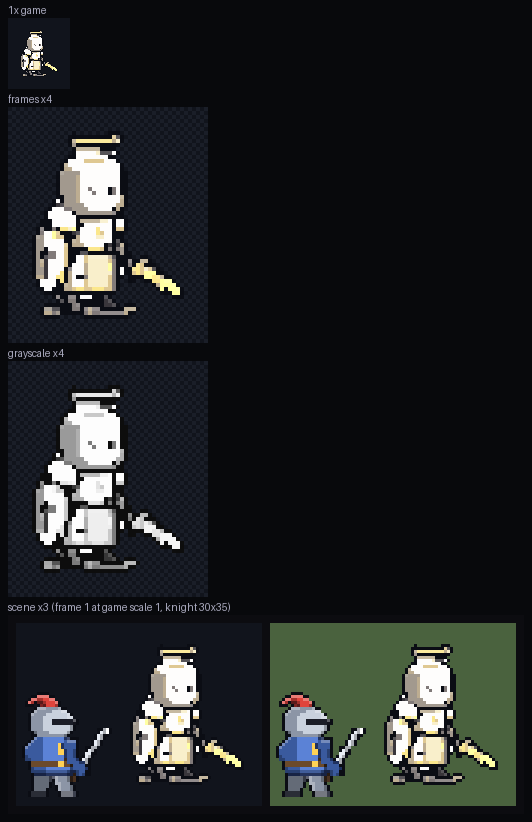
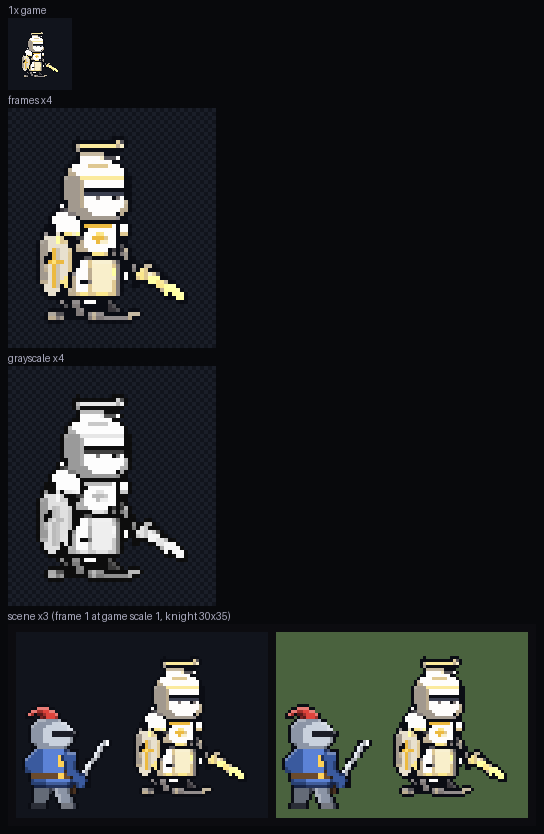
검사 계열 2차 4종 기준 그림 검수 합격 (독립 비평 2개): 검사·성기사·검성·대검전사 + 나란히 비교
- 수리 스크립트 fix_gs_hand.py·fix_bm_eye.py·fix_paladin_gold.py, 밑그림 mannequin_gs2.py, lineup.py
- 검토 페이지 ✔ 절: 컬러·흑백·실루엣, 점수표, 검수 시트

diff --git a/dev/review/sheets-sword.html b/dev/review/sheets-sword.html
@@ -66,14 +66,18 @@
   흐름: 컨셉만 보고 ComfyUI 로 새로 그림(3등신 마네킹 비율판) → 비평으로 후보 순위 → PixelLab <code>image-to-pixelart</code> 256→64 (직업당 1회) → 손질(<code>dev/sheets-common/polish.py</code>) → 검수 시트(<code>qa.py --kind char</code>) + 블라인드 비평(<code>dev/pixel-qa/critic.md</code>). 합격선: 모든 항목 3 이상 · 평균 3.5.
   목표 문장에 사용자 지적 "뭉개짐 현상이 심하다"를 넣었다.
 </div>
-<div class="row">
-  <figure><img class="px3" src="sheets-sword/design/pass-swordsman.png" alt=""><figcaption>검사 — 4·4·4·4·3 · 평균 4.0 합격</figcaption></figure>
-  <figure><img class="px3" src="sheets-sword/design/pass-paladin.png" alt=""><figcaption>성기사 — 3·3·4·3·3 · 평균 3.57 합격</figcaption></figure>
-  <figure><img class="px3" src="sheets-sword/design/wip-blademaster.png" alt="" style="opacity:.55"><figcaption>검성 — 평균 3.43 수리 (칼 겹침·하반신 어두움)</figcaption></figure>
-  <figure><img class="px3" src="sheets-sword/design/wip-greatswordsman.png" alt="" style="opacity:.55"><figcaption>대검전사 — 평균 3.14 다시 (대검이 좁아짐)</figcaption></figure>
-</div>
-<div class="dim">점수 순서: 의도 · 읽힘 · 깔끔 · 명암 · 도트 (움직임 5 · 규칙 4 고정). 흐린 두 장은 아직 미달이라 다시 그리는 중.</div>
-<details><summary class="dim">검수 시트 (검사·성기사)</summary><div class="row"><img src="sheets-sword/design/qa-swordsman.png" style="max-width:48%" alt=""><img src="sheets-sword/design/qa-paladin.png" style="max-width:48%" alt=""></div></details>
+<h3>2차 4종 나란히 — 컬러 · 흑백 · 실루엣 (4배, 게임 안 키 46px)</h3>
+<div class="row"><img src="sheets-sword/design/lineup-all-x4.png" alt="검사·성기사·검성·대검전사 컬러·흑백·실루엣" style="max-width:100%"></div>
+<div class="row"><figure><img src="sheets-sword/design/lineup-x1.png" alt="" style="image-rendering:pixelated"><figcaption>1배 (실제 도트 크기)</figcaption></figure></div>
+<table>
+  <tr><th>직업</th><th>그림</th><th>만든 길</th><th>검수 (의도·읽힘·깔끔·명암·도트·움직임·규칙 → 평균)</th></tr>
+  <tr><td>검사</td><td><img class="px3" src="sheets-sword/design/final-swordsman.png" alt=""></td><td>ComfyUI N2-23 → PixelLab 변환 → 정리</td><td>A 4·4·3·4·3·5·4 → 3.86 · B 4·4·3·4·3·5·4 → 3.86</td></tr>
+  <tr><td>성기사</td><td><img class="px3" src="sheets-sword/design/final-paladin.png" alt=""></td><td>ComfyUI N2-51 → PixelLab 변환 → 면갑 스크립트 → <code>fix_paladin_gold.py</code> (방패 금 십자가·방패 면 크림·가슴 금 문장·어깨 금띠)</td><td>A 4·3·4·3·3·5·4 → 3.71 · B 3·3·4·3·3·5·4 → 3.57</td></tr>
+  <tr><td>검성</td><td><img class="px3" src="sheets-sword/design/final-blademaster.png" alt=""></td><td>ComfyUI N7-77 (흰 가면) 46칸 축소 → <code>fix_bm_eye.py</code> (빨간 눈 틈·왼손 칼 정리·등 뒤 밝힘·판 테두리·다리 줄무늬) — PixelLab 변환본은 3.17 이라 버림</td><td>A 3·4·4·3·4·5·4 → 3.86 · B 4·3·4·3·4·5·4 → 3.86</td></tr>
+  <tr><td>대검전사</td><td><img class="px3" src="sheets-sword/design/final-greatswordsman.png" alt=""></td><td>밑그림 <code>mannequin_gs2.py</code>(두 주먹이 자루) → ComfyUI N8-97 46칸 축소 → <code>fix_gs_hand.py</code> (주먹·코등이·찡그린 눈썹·입·칼날 가장자리)</td><td>A 4·3·3·3·3·5·4 → 3.57 · B 4·4·4·3·4·5·4 → 4.0</td></tr>
+</table>
+<div class="dim">평균은 critic.md 대로 7항목(한 장 그림은 움직임 5). 검성·대검전사는 같은 그림의 판정이 흔들려서 독립 비평 2개가 모두 합격일 때만 합격으로 쳤다. 4종 모두 독립 비평 2개 합격. 남은 흠(비평 공통): 성기사 흰 몸통·방패 밝기가 붙음·어깨 금 약함, 검사 하체 판금이 잘게 쪼개짐·43색, 검성 칼이 곧아 곡도 휨이 약함·손이 작음, 대검전사 칼날과 가슴판 밝기가 붙음 — 관절 애니 단계에서 무기 덧그리기로 다룰 수 있다.</div>
+<details><summary class="dim">검수 시트 (4종)</summary><div class="row"><img src="sheets-sword/design/qa-swordsman.png" style="max-width:48%" alt=""><img src="sheets-sword/design/qa-paladin.png" style="max-width:48%" alt=""><img src="sheets-sword/design/qa-blademaster.png" style="max-width:48%" alt=""><img src="sheets-sword/design/qa-greatswordsman.png" style="max-width:48%" alt=""></div></details>
 <h2>▣ 뭉개짐 잡기 — 검사·성기사 3단 비교 + 검성·대검전사 재시안 (2026-10-17, PixelLab 2)</h2>
 <div class="card">
   <b>뭉개짐 원인</b>: ComfyUI(Z-Image 픽셀 LoRA)가 그리는 도트 한 칸이 1024px 그림에서 6~7px, 즉 <b>키 약 120칸짜리 고해상 도트</b>다. 이걸 키 46px 로 줄이면 2.6배 압축이라 갑옷 이음새·명암이 한 칸에 섞여 덩어리가 된다 (줄이는 방식 — 칸마다 최빈색 — 의 문제가 아니라 디테일 밀도가 안 맞음).

diff --git a/dev/sheets-sword/fix_gs_hand.py b/dev/sheets-sword/fix_gs_hand.py
@@ -1,0 +1,42 @@
+# 대검전사 N8-97 46칸 축소본 수리 (스크립트, PixelLab 0): 비평 p4 "자루를 쥔 주먹·코등이가 안 보여 칼이 몸에 박힌 판처럼 읽힘"
+#  칼날 아래 끝(가슴 앞)에 칼날과 직각인 어두운 코등이 한 줄, 그 아래 갈색 자루 위에 주먹(장갑 2단 + 외곽선)을 찍는다.
+#  python -I -B fix_gs_hand.py → design/pl2/fix-greatswordsman-n8.png, design/_gs97-fix-x8.png
+import os
+from PIL import Image
+HERE = os.path.dirname(os.path.abspath(__file__)); D = os.path.join(HERE, 'design')
+OUT = (11, 13, 20, 255); GUARD = (70, 76, 92, 255); GUARD_L = (130, 138, 156, 255)
+GLOVE = (206, 150, 100, 255); GLOVE_L = (232, 186, 140, 255); GLOVE_D = (128, 80, 48, 255)
+
+if __name__ == '__main__':
+    im = Image.open(os.path.join(D, 'px', 'greatswordsman-N8-97-h46.png')).convert('RGBA'); P = im.load()
+    # 코등이: 칼날 축(오른쪽 아래 45도)에 직각, 칼날 끝 (19,24) 중심
+    for i, (x, y) in enumerate([(16, 27), (17, 26), (18, 25), (19, 24), (20, 23), (21, 22), (22, 21)]):
+        P[x, y] = GUARD_L if i in (2, 3) else GUARD
+        P[x + 1, y] = OUT if not P[x + 1, y][3] or i in (0, 6) else P[x + 1, y]
+    # 주먹: 코등이 바로 아래 자루 위, 밝은 장갑 + 손가락 마디 어두운 줄, 바깥쪽(왼쪽·아래)만 외곽선
+    for y in range(25, 28):
+        for x in range(20, 23):
+            P[x, y] = GLOVE_D if x == 22 else GLOVE
+    P[21, 25] = GLOVE_L
+    for y in range(25, 29): P[19, y] = OUT
+    for x in range(19, 24): P[x, 28] = OUT
+    # 얼굴 (비평 p4 g3-A·B: 찡그림 약함·볼 주황 얼룩·칼날과 얼굴 밝기 붙음)
+    SKIN_D = (200, 152, 118, 255)
+    for y in range(12, 21):                                    # 볼·눈 줄의 주황(204,127,74) → 어두운 살색
+        for x in range(13, 31):
+            if P[x, y][:3] == (204, 127, 74): P[x, y] = SKIN_D
+    for x, y in ((25, 11), (26, 11), (27, 12), (28, 12), (29, 12), (30, 12), (26, 12)):   # 굵은 사선 눈썹 (안쪽이 내려감)
+        P[x, y] = OUT
+    for x in (27, 28, 29): P[x, 13] = (228, 192, 161, 255)    # 눈 줄 정리 → 피부
+    P[27, 14] = OUT; P[30, 14] = OUT                           # 눈 두 점
+    for x in (27, 28, 29): P[x, 17] = OUT                      # 꽉 다문 입
+    P[26, 18] = OUT; P[30, 18] = OUT                           # 입꼬리 내려감
+    # 칼날이 얼굴에 닿는 칸 → 어두운 강철 (흑백에서 칼날·얼굴 분리)
+    face = lambda c: c[3] and c[0] > 190 and c[1] > 140 and c[2] < 170
+    ch = [(x, y) for y in range(10, 22) for x in range(1, im.width - 1) if P[x, y][3] and P[x, y][:3] in ((224, 220, 226), (156, 167, 188), (160, 170, 189)) and face(P[x + 1, y])]
+    for q in ch: P[q] = (96, 104, 124, 255)
+    im.save(os.path.join(D, 'pl2', 'fix-greatswordsman-n8.png'))
+    S = 8; b = Image.new('RGBA', (im.width * 2 * S + 8 * S, im.height * S), (38, 40, 50, 255))
+    a = Image.open(os.path.join(D, 'px', 'greatswordsman-N8-97-h46.png')).convert('RGBA')
+    b.alpha_composite(a.resize((a.width * S, a.height * S), Image.NEAREST)); b.alpha_composite(im.resize((im.width * S, im.height * S), Image.NEAREST), ((im.width + 8) * S, 0))
+    b.save(os.path.join(D, '_gs97-fix-x8.png')); print('ok')

diff --git a/dev/sheets-sword/fix_bm_eye.py b/dev/sheets-sword/fix_bm_eye.py
@@ -1,0 +1,37 @@
+# 검성 N7-77 46칸 축소본 수리 (스크립트, PixelLab 0): 비평 p4 b1·b2 공통 "흰 가면에 빨간 눈 틈이 없음"
+#  가면의 어두운 눈 두 점을 지우고 가로 한 줄 진홍 눈 틈을 찍는다.  python -I -B fix_bm_eye.py → design/pl2/fix-blademaster-n7.png
+import os
+from PIL import Image
+HERE = os.path.dirname(os.path.abspath(__file__)); D = os.path.join(HERE, 'design')
+if __name__ == '__main__':
+    im = Image.open(os.path.join(D, 'px', 'blademaster-N7-77-h46.png')).convert('RGBA'); P = im.load()
+    W = P[24, 14]                                              # 가면 흰색
+    for x in (22, 23): P[x, 14] = W
+    for x in range(23, 30): P[x, 15] = (200, 16, 24, 255)
+    im.save(os.path.join(D, 'pl2', 'fix-blademaster-n7.png'))
+    # 2차 (비평 p5-B 등 공통: 왼손 칼에 빨간 꼬리·검은 덩어리가 붙어 깃발처럼 읽힘) → 칼 둘레만 남기고 지운 뒤 칼날을 위로 4칸 늘림
+    OUT = (8, 12, 20, 255); LIT = (252, 252, 248); MID = (128, 136, 164)
+    q = lambda c: tuple(v // 4 * 4 for v in c[:3])
+    for y in range(22, 35):
+        for x in range(0, 12):
+            if P[x, y][3] and q(P[x, y]) not in (LIT, MID): P[x, y] = (0, 0, 0, 0)
+    for k, y in enumerate(range(25, 29)):
+        x = k + 1; P[x, y] = LIT + (255,); P[x + 1, y] = MID + (255,)
+    blade = [(x, y) for y in range(22, 36) for x in range(0, 16) if P[x, y][3] and q(P[x, y]) in (LIT, MID)]
+    for x, y in blade:
+        for a, b in ((1, 0), (-1, 0), (0, 1), (0, -1)):
+            if 0 <= x + a < im.width and 0 <= y + b < im.height and not P[x + a, y + b][3]: P[x + a, y + b] = OUT
+    # 몸 (비평 p5-A·B 공통): 등 뒤 거의 검정(32,48,68) → 한 단계 밝게, 가슴판·치마판 윗변 밝은 테두리, 다리 밝은 줄무늬 → 다리색
+    for y in range(im.height):
+        for x in range(im.width):
+            if P[x, y][3] and q(P[x, y]) == (32, 48, 68): P[x, y] = (54, 70, 94, 255)
+    HI = (104, 124, 152, 255)
+    for y, x0, x1 in ((25, 14, 32), (34, 16, 31)):
+        for x in range(x0, x1):
+            if P[x, y][3] and q(P[x, y]) == (64, 84, 108): P[x, y] = HI
+    for y in range(37, 43):
+        for x in range(im.width):
+            if P[x, y][3] and q(P[x, y]) == MID: P[x, y] = (72, 92, 116, 255)
+    im.save(os.path.join(D, 'pl2', 'fix2-blademaster-n7.png'))
+    S = 8; b = Image.new('RGBA', (im.width * S, im.height * S), (38, 40, 50, 255)); b.alpha_composite(im.resize(b.size, Image.NEAREST)); b.save(os.path.join(D, '_bm77-fix-x8.png'))  # (2차 결과 기준)
+    print('ok')

diff --git a/dev/sheets-sword/fix_paladin_gold.py b/dev/sheets-sword/fix_paladin_gold.py
@@ -1,0 +1,37 @@
+# 성기사 면갑본(design/pl2/visor-paladin.png) 수리 (스크립트, PixelLab 0): 재검수 p2/p10 A·B 공통
+#  "방패 십자가가 회색·금 장식이 안 보임·방패/몸통이 흰 덩어리로 붙음" → 방패 십자가 금색, 방패 면 한 단계 크림, 가슴 금 문장, 어깨 띠 금
+#  python -I -B fix_paladin_gold.py → design/pl2/fix-paladin.png, design/_pal-fix-x8.png
+import os
+from PIL import Image
+HERE = os.path.dirname(os.path.abspath(__file__)); D = os.path.join(HERE, 'design')
+GOLD = (236, 186, 64, 255); GOLD_D = (178, 124, 36, 255); GOLD_L = (255, 226, 120, 255); FACE = (232, 224, 206, 255)
+if __name__ == '__main__':
+    src = Image.open(os.path.join(D, 'pl2', 'visor-paladin.png')).convert('RGBA'); im = src.copy(); P = im.load()
+    # 방패: x 1..9, y 25..41 (왼팔 카이트 방패)
+    for y in range(25, 42):
+        for x in range(1, 10):
+            c = P[x, y]
+            if not c[3] or c[:3] == (11, 13, 20): continue
+            if c[:3] in ((57, 54, 59),): P[x, y] = GOLD_D
+            elif c[:3] in ((129, 122, 121), (86, 84, 88)): P[x, y] = GOLD
+            elif c[:3] == (254, 253, 252): P[x, y] = FACE
+    # 끊긴 십자 조각은 지우고 또렷한 십자(세로 x5 y29~38, 가로 y32 x3~7)를 새로 그림
+    for y in range(25, 42):
+        for x in range(1, 10):
+            if P[x, y] in (GOLD, GOLD_D): P[x, y] = FACE
+    for y in range(29, 39):
+        if P[5, y][3] and P[5, y][:3] != (11, 13, 20): P[5, y] = GOLD
+    for x in range(3, 8):
+        if P[x, 32][3] and P[x, 32][:3] != (11, 13, 20): P[x, 32] = GOLD
+    P[5, 32] = GOLD_L
+    for y in range(29, 39):
+        if P[6, y] == FACE and y != 32: P[6, y] = (206, 196, 176, 255)      # 십자 오른쪽 그늘 1줄
+    # 가슴 금 십자 문장, 어깨 띠 금
+    for x, y in ((16, 25), (16, 26), (16, 27), (15, 26), (17, 26)): P[x, y] = GOLD
+    P[16, 25] = GOLD_L
+    for x in range(13, 20):
+        if P[x, 23][3] and P[x, 23][:3] != (11, 13, 20): P[x, 23] = GOLD
+    im.save(os.path.join(D, 'pl2', 'fix-paladin.png'))
+    S = 8; b = Image.new('RGBA', ((im.width * 2 + 6) * S, im.height * S), (38, 40, 50, 255))
+    b.alpha_composite(src.resize((im.width * S, im.height * S), Image.NEAREST)); b.alpha_composite(im.resize((im.width * S, im.height * S), Image.NEAREST), ((im.width + 6) * S, 0))
+    b.save(os.path.join(D, '_pal-fix-x8.png')); print('ok')

diff --git a/dev/sheets-sword/lineup.py b/dev/sheets-sword/lineup.py
@@ -1,0 +1,40 @@
+# 검사 계열 2차 4종 기준 그림 나란히 (컬러·흑백·실루엣) — 색깔놀이 금지 확인용, 로드맵·사용자 검토
+#  python -I -B lineup.py → dev/review/sheets-sword/design/lineup-{color,gray,sil}-x4.png, lineup-x1.png, lineup-all-x4.png
+import os
+from PIL import Image, ImageDraw
+HERE = os.path.dirname(os.path.abspath(__file__)); ROOT = os.path.dirname(os.path.dirname(HERE))
+PL = os.path.join(HERE, 'design', 'pl2'); RV = os.path.join(ROOT, 'dev', 'review', 'sheets-sword', 'design')
+LINE = [('검사', 'swordsman', 'clean-swordsman.png'), ('성기사', 'paladin', 'fix-paladin.png'),
+        ('검성', 'blademaster', 'fix2-blademaster-n7.png'), ('대검전사', 'greatswordsman', 'fix-greatswordsman-n8.png')]
+BG = (38, 40, 50, 255)
+
+
+def gray(im):
+    g = im.convert('LA').convert('RGBA'); g.putalpha(im.split()[3]); return g
+
+
+def sil(im):
+    o = Image.new('RGBA', im.size, (0, 0, 0, 0)); a = im.split()[3]
+    o.paste((235, 235, 240, 255), mask=a); return o
+
+
+def row(ims, S, gap=10):
+    H = max(i.height for i in ims); W = sum(i.width + gap for i in ims) + gap
+    o = Image.new('RGBA', (W * S, (H + 4) * S), BG); x = gap
+    for i in ims:
+        o.alpha_composite(i.resize((i.width * S, i.height * S), Image.NEAREST), (x * S, (H + 2 - i.height) * S)); x += i.width + gap
+    return o
+
+
+if __name__ == '__main__':
+    os.makedirs(RV, exist_ok=True)
+    ims = [Image.open(os.path.join(PL, f)).convert('RGBA') for _, _, f in LINE]
+    for i, (_, c, _) in enumerate(LINE): ims[i].save(os.path.join(RV, f'final-{c}.png'))
+    rows = {'color': ims, 'gray': [gray(i) for i in ims], 'sil': [sil(i) for i in ims]}
+    for k, r in rows.items(): row(r, 4).save(os.path.join(RV, f'lineup-{k}-x4.png'))
+    row(ims, 1).save(os.path.join(RV, 'lineup-x1.png'))
+    parts = [row(r, 4) for r in rows.values()]
+    all_ = Image.new('RGBA', (parts[0].width, sum(p.height for p in parts)), BG); y = 0
+    for p in parts: all_.alpha_composite(p, (0, y)); y += p.height
+    all_.save(os.path.join(RV, 'lineup-all-x4.png'))
+    print('sizes', [i.size for i in ims])

diff --git a/docs/specs/legacy-class-sheets.md b/docs/specs/legacy-class-sheets.md
@@ -206,6 +206,8 @@
 - 2026-10-17 레인저 계열 기준 그림 정리 (PixelLab image-to-pixelart 4, 계열 누적 16): 석궁사수 얼굴 재시안 B5f-73(좌우 반전) → 256 판(몸 키 184) → 256→64 정리 → 정리본(clean) 채택 (공용 polish 손질본은 4종 모두 남색·초록·피부가 검게 무너져 낮음) → 무료 수리(저격수 흰 점 지우기·안쪽 명도 올림, 석궁사수 흰 점) → 정식 qa.py --kind char + critic.md 비평 합격: 레인저 3.86·저격수 3.71·마궁수 3.71·석궁사수 3.86. 관절 애니 계획서(skeleton-v3 192 8f×3 동작×4종 = 36, 재시도 0) 로드맵 승인 대기. 검토 `dev/review/sheets-bow.html` C절.
 
 - 2026-10-17 창기사 계열 새 디자인 4종 도트 검수 합격 (창기사·용기병·할버디어 3.57, 랜서 3.71): 직업별 3등신 도트 마네킹 가이드 + 컨셉 프롬프트 ComfyUI(`dev/spear/design5.py`) → 형태 순위 → PixelLab image-to-pixelart 256→64 직업당 1회 + 창기사 재정리 1회(로드맵 승인) → polish → 스크립트 수리(`fix.py`) → 정리본에서 무기 직선을 찾아 코드 무기로 바꾸기(`pix.py wpnfix`: 3px 창, 3단 반달 할버드, 끊김 없는 원뿔 랜스) → `qa.py --kind char` + 비평(목표 문장에 사용자 지적 4건·실루엣 IoU). 1차(v4) 16장 합격 0 의 원인: 1024→46 축소로 창이 1~2px, 어두운 한 톤, 체형 가이드 약함. PixelLab 누계 16. 검토 `sheets-spear.html` ◆절. 다음: 관절 애니 시험(창기사 찌르기 8f, usage 3) 계획서 승인 대기.
+- 2026-10-17: **검사 계열 2차 4종 기준 그림 검수 합격** (독립 비평 2개 모두 합격일 때만 합격 — 같은 그림 판정이 3.17~4.0 으로 흔들려서 정한 규칙. 평균은 critic.md 대로 7항목). 검사 `design/pl2/clean-swordsman.png` 3.86·3.86 · 성기사 `fix-paladin.png`(면갑본 + `fix_paladin_gold.py` 금 십자 방패·가슴 문장·어깨 금띠) 3.71·3.57 · 검성 `fix2-blademaster-n7.png`(ComfyUI N7 흰 가면 46칸 축소 + `fix_bm_eye.py`) 3.86·3.86 · 대검전사 `fix-greatswordsman-n8.png`(밑그림 `mannequin_gs2.py` 두 주먹이 자루 → N8-97 축소 + `fix_gs_hand.py`) 3.57·4.0. 나란히(컬러·흑백·실루엣) `lineup.py` → 검토 페이지 ✔ 절. PixelLab 이번 3(대검전사 N6-37 변환 → 손 없음으로 버림, 검성 N7-77·대검전사 N8-97 변환 → 둘 다 축소본보다 낮아 버림, 로드맵 승인 수리안대로 축소본 채택), 계열 누적 28. 교훈: ComfyUI 시안이 이미 46칸에서 또렷하면 image-to-pixelart 가 오히려 손·표정을 지운다 — 3등신 시안부터는 축소+스크립트 수리를 먼저 검수하고 변환은 그게 안 될 때만.
+
 ## 남은 일 / 미정
 - 2026-10-17 (로드맵, 레인저 교훈): skeleton-v3 는 첫 프레임이 무기를 겨눈 자세면 팔 관절을 따르지 않고 그 팔 모양을 지킨다(다리는 따름). 관절 애니 첫 프레임은 "팔 내린 중립 대기·빈손·무기 없음"으로 — 기준 그림이 무기를 든 자세면 계획서에 `edit-image-pixen` 중립 편집 1회(usage 1)를 넣는다. 첫 프레임 뼈 길이에 맞추면 팔이 짧아지니 목표 손 위치에서 관절 각도를 역산(레인저 `skelgen.py` `solve_hands` 참고).
 - 2026-10-16 레인저 계열 보류 (로드맵 검수 요청): 덧그리기 전 PixelLab 원본(마네킹)을 몽타주로 확인 — 활 쏘기는 뒷손 시위 당김이 없고 앞팔만 조금(손 약 4도트), 석궁 쏘기는 거의 정지, 공성 쏘기만 반동이 보임, 활 하늘 쏘기는 팔을 머리 위로 치켜듦(당기기 없음), 걷기 3종은 좋음. 검사 계열과 같은 "공격 때 몸·팔이 안 움직임" 문제가 원본부터 있다. 남은 PixelLab 호출 없음(usage 12 그대로), approved.txt 비움, SHEET_ON false. 확인 `dev/bowsheets/motion.py`, 검토 0-1절.
